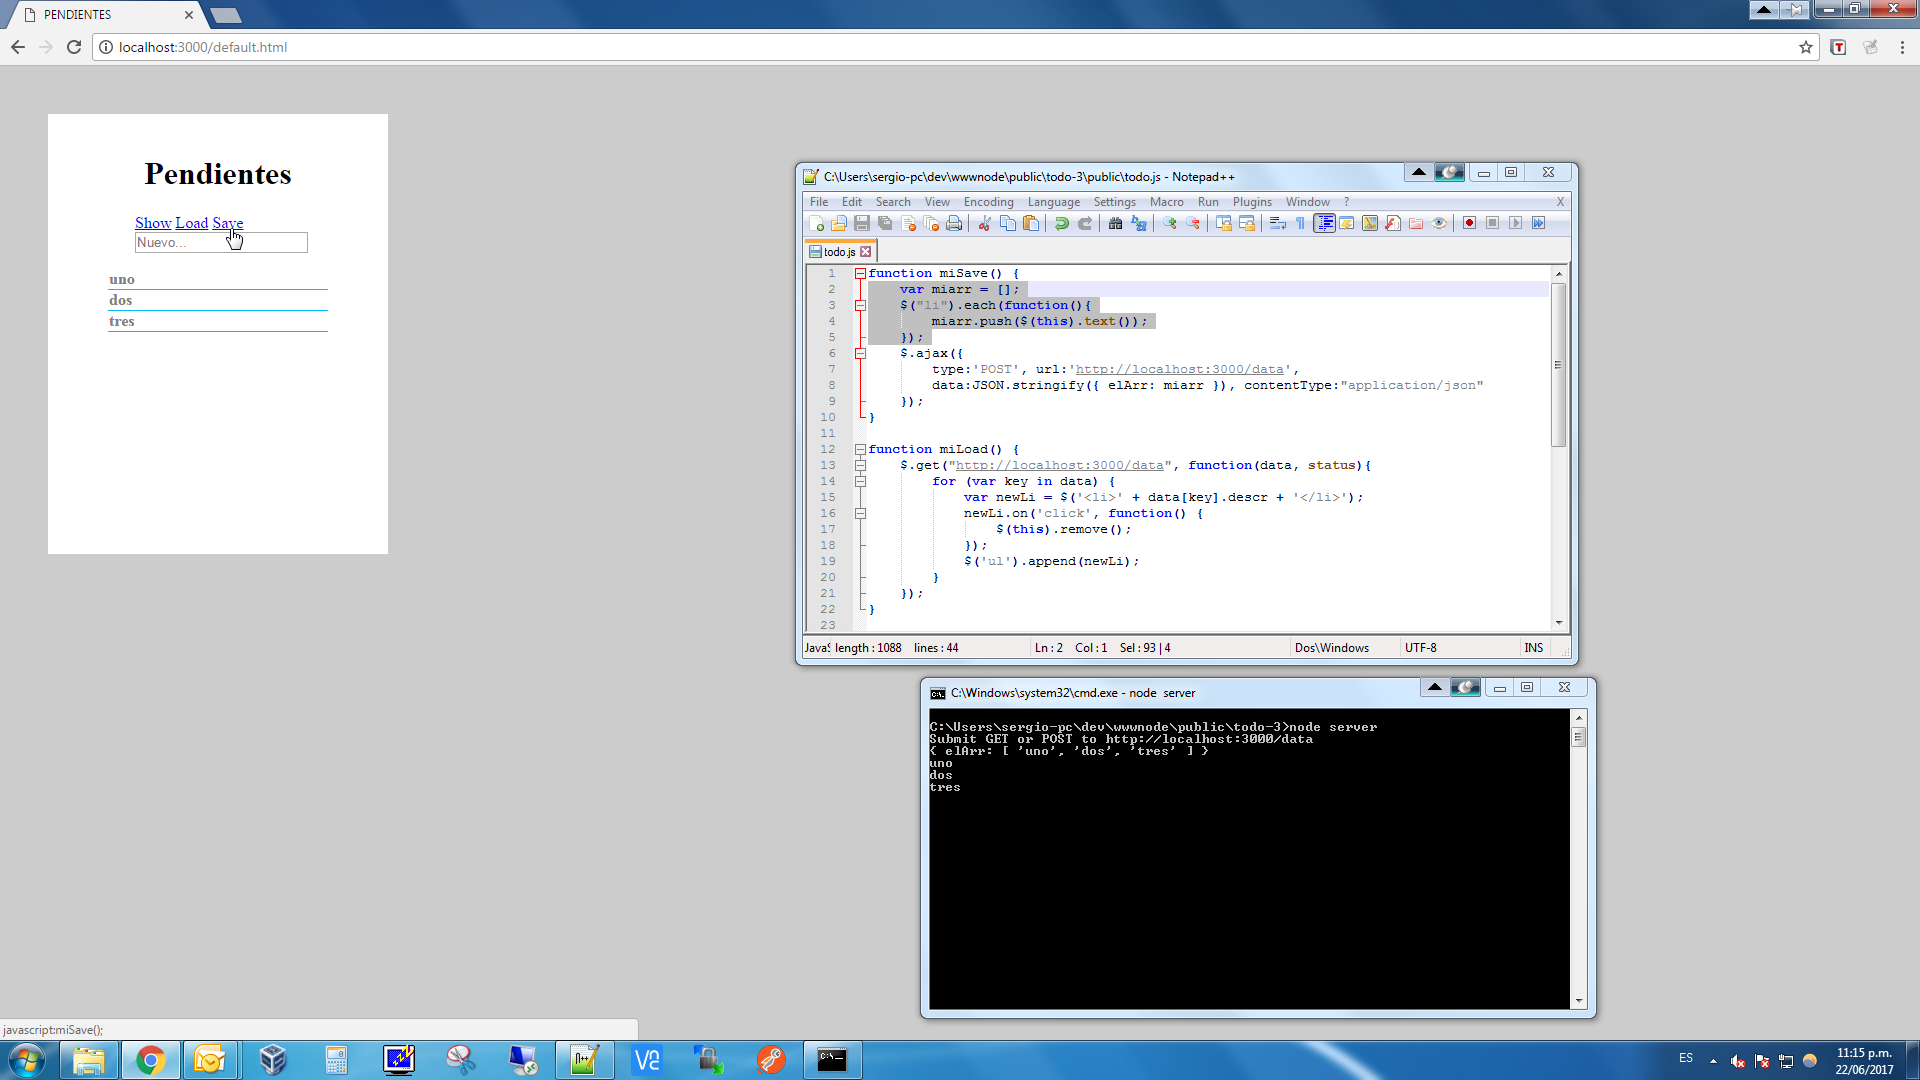
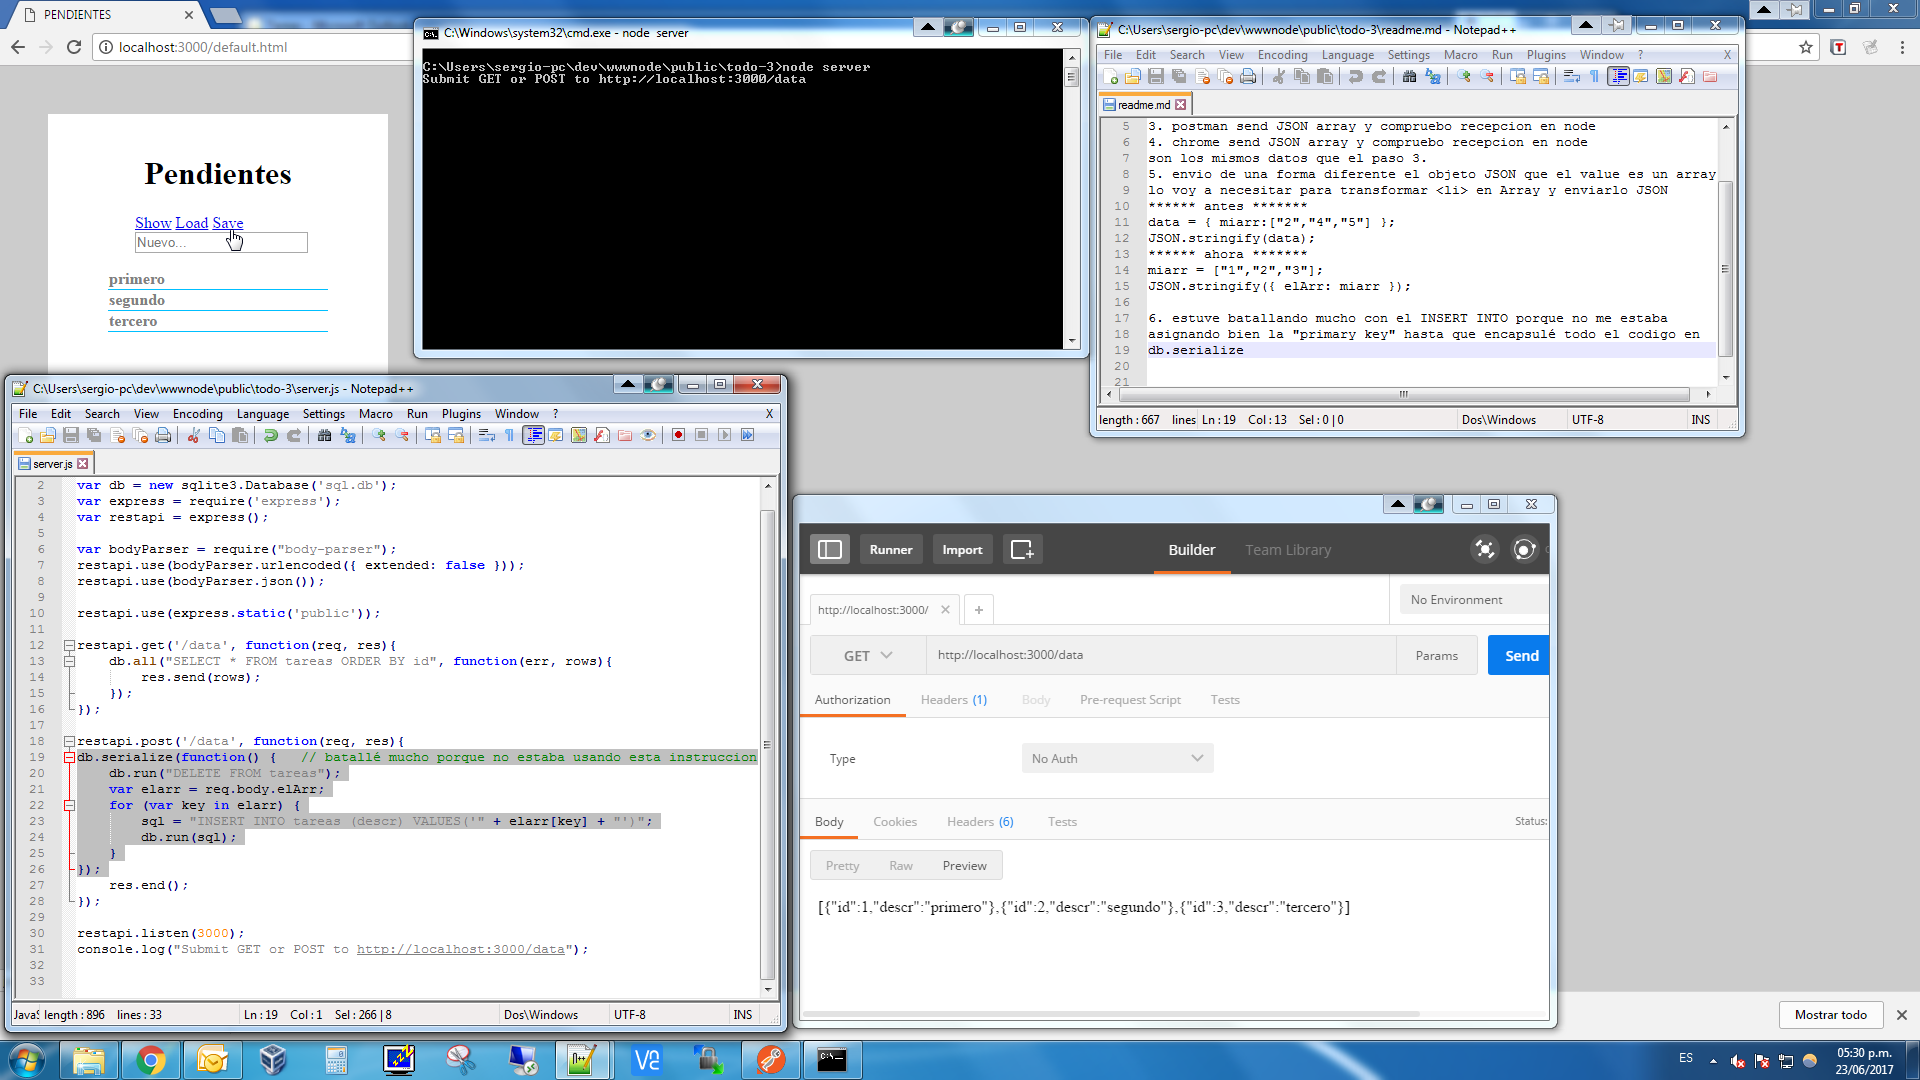
API POST - THE ONE!!!

diff --git a/server.js b/server.js
@@ -10,17 +10,20 @@ restapi.use(bodyParser.json());
 restapi.use(express.static('public'));
 
 restapi.get('/data', function(req, res){
-    db.all("SELECT descr FROM tareas", function(err, rows){
-        res.json(rows);
+    db.all("SELECT * FROM tareas ORDER BY id", function(err, rows){
+		res.send(rows);
     });
 });
 
 restapi.post('/data', function(req, res){
-	console.log(req.body);
+db.serialize(function() {	// batallé mucho porque no estaba usando esta instruccion
+	db.run("DELETE FROM tareas");
 	var elarr = req.body.elArr;
 	for (var key in elarr) {
-		console.log(elarr[key]);
+		sql = "INSERT INTO tareas (descr) VALUES('" + elarr[key] + "')";
+		db.run(sql);
 	}
+});	
 	res.end();
 });
 

diff --git a/readme.md b/readme.md
@@ -5,13 +5,16 @@
 3. postman send JSON array y compruebo recepcion en node
 4. chrome send JSON array y compruebo recepcion en node 
 son los mismos datos que el paso 3.
-
 5. envio de una forma diferente el objeto JSON que el value es un array.
 lo voy a necesitar para transformar <li> en Array y enviarlo JSON
 ****** antes *******
 data = { miarr:["2","4","5"] };
 JSON.stringify(data);
-
 ****** ahora *******
 miarr = ["1","2","3"];
 JSON.stringify({ elArr: miarr });
+
+6. estuve batallando mucho con el INSERT INTO porque no me estaba
+asignando bien la "primary key" hasta que encapsulé todo el codigo en
+db.serialize
+
